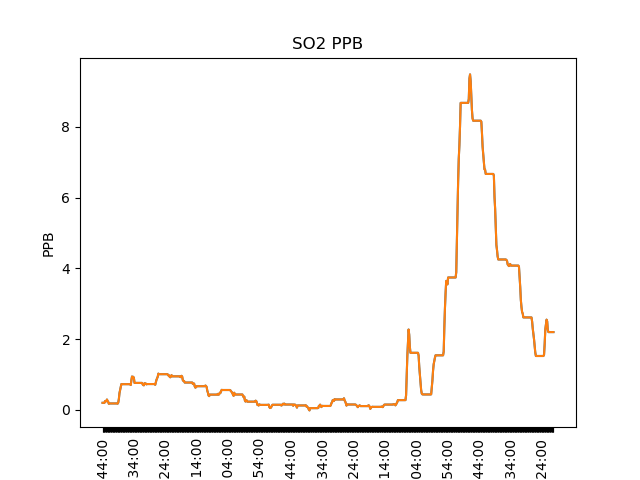
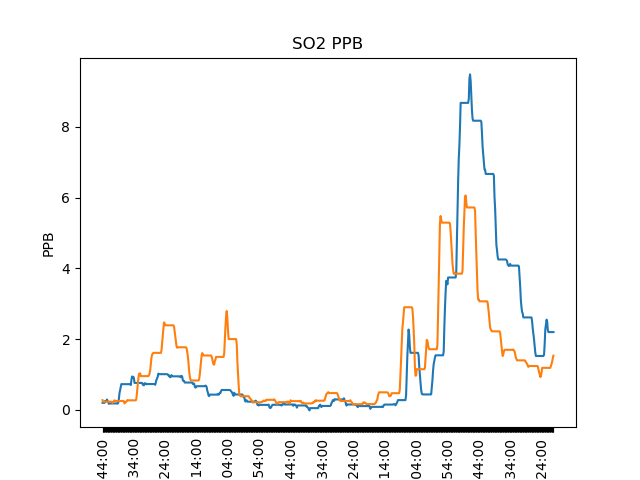
a

Changed region(s): [[0.1562, 0.1562, 0.7812, 0.875], [0.75, 0.625, 0.875, 0.7812], [0.7812, 0.5312, 0.8125, 0.5625]]

diff --git a/graph_mysql.py b/graph_mysql.py
@@ -5,7 +5,7 @@ import matplotlib.dates as mdates
 
 x = []
 y = []
-Z = []
+z = []
 
 try:
   cnx = mysql.connector.connect(host='localhost',
@@ -30,12 +30,12 @@ else:
     for item in myresult:
         x.append(str(item[0]))
         y.append(item[1])
-        Z.append(item[2])
+        z.append(item[2])
 
 
     fig, ax = plt.subplots()
     plt.plot(x,y, label='SO2 PPB')
-    plt.plot(x,y, label='TRS PPB')
+    plt.plot(x,z, label='TRS PPB')
     for index, label in enumerate(ax.xaxis.get_ticklabels()):
         if index % 50 != 0:
             label.set_visible(False)
